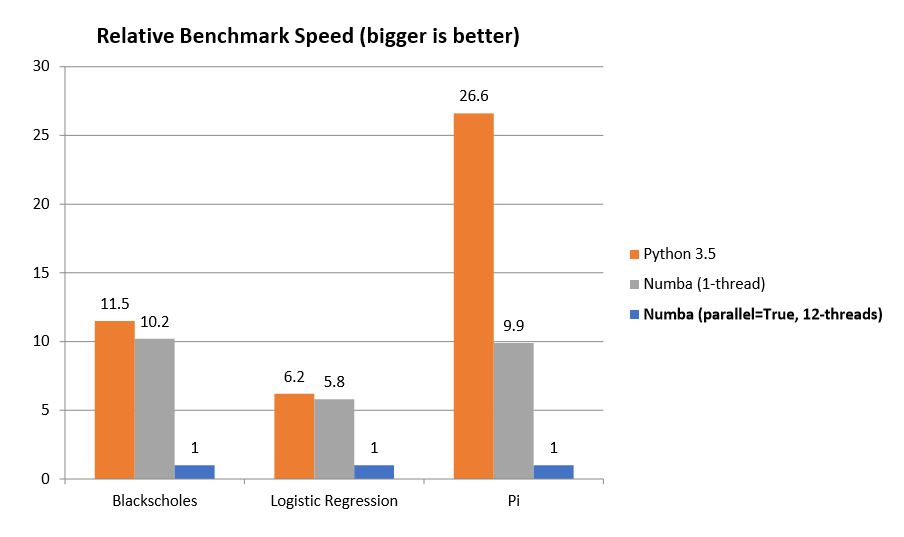
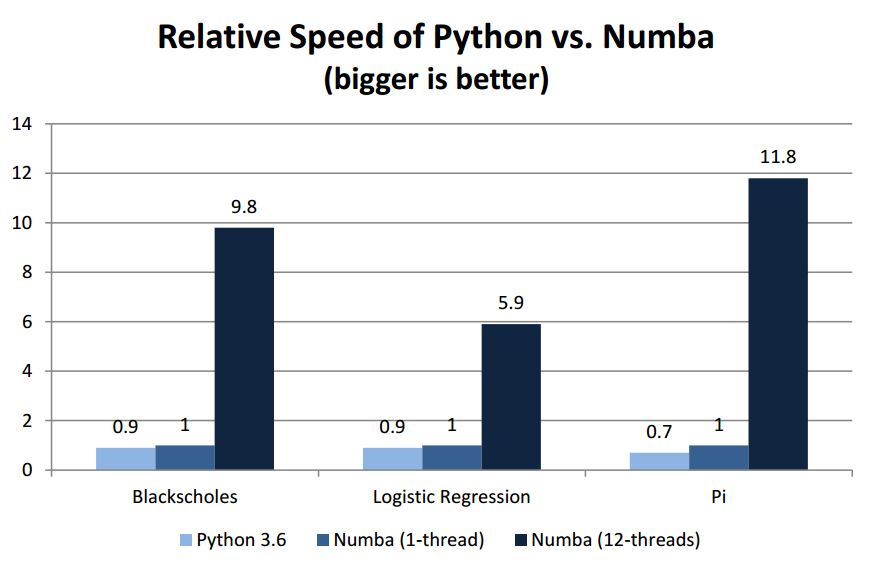
Update parallel benchmark graph, and add some discussion (#13)

diff --git a/papers/oleksandr_pavlyk/parallel/parallel.rst b/papers/oleksandr_pavlyk/parallel/parallel.rst
@@ -1,7 +1,7 @@
 In this section, we introduce a new feature in Numba that automatically parallelizes NumPy programs.
 Achieving high performance with Python on modern multi-core CPUs is challenging since Python implementations are generally interpreted and prohibit parallelism.
 To speed up sequential execution, Python functions can be compiled to fast native code using Numba, which in turns uses the LLVM JIT compiler. 
-All a programmer has to do to use Numba is to annotate their functions with Numba's `@jit` decorator.
+All a programmer has to do to use Numba is to annotate their functions with Numba's ``@jit`` decorator.
 However, the Numba JIT will not parallelize NumPy functions, even though the majority of them are known to have parallel semantics, and thus cannot make use of multiple cores.
 Furthermore, even if individual NumPy functions were parallelized, a program containing many such functions would likely have lackluster performance due to poor cache behavior. 
 Numba's existing solution is to allow users to write scalar kernels in OpenCL style, which can be executed in parallel. 
@@ -16,11 +16,11 @@ Our implementation supports the following parallel operations:
 1. Common arithmetic functions between NumPy arrays, and between arrays and scalars, as well as NumPy ufuncs. 
    They are often called `element-wise` or `point-wise` array operations:
 
-    * unary operators: ``+`` ``-`` ``~``
-    * binary operators: ``+`` ``-`` ``*`` ``/`` ``/?`` ``%`` ``|`` ``>>`` ``^`` ``<<`` ``&`` ``**`` ``//``
-    * comparison operators: ``==`` ``!=`` ``<`` ``<=`` ``>`` ``>=``
-    * NumPy ufuncs that are supported in Numba's nopython mode.
-    * User defined `DUFunc` through `numba.vectorize`.
+  * unary operators: ``+`` ``-`` ``~``
+  * binary operators: ``+`` ``-`` ``*`` ``/`` ``/?`` ``%`` ``|`` ``>>`` ``^`` ``<<`` ``&`` ``**`` ``//``
+  * comparison operators: ``==`` ``!=`` ``<`` ``<=`` ``>`` ``>=``
+  * NumPy ufuncs that are supported in Numba's nopython mode.
+  * User defined `DUFunc` through ``@vectorize``.
 
 2. NumPy reduction functions ``sum`` and ``prod``. Note that they have to be
    written as ``numpy.sum(a)`` instead of ``a.sum()``.
@@ -31,6 +31,9 @@ Our implementation supports the following parallel operations:
 4. Multi-dimensional arrays are also supported for the above operations when operands have matching dimension and size. 
    The full semantics of NumPy broadcast between arrays with mixed dimensionality or size is not supported, nor is the reduction across a selected dimension.
 
+5. NumPy `array` created from list comprehension is turned into direct array allocation and initialization without intermediate list.
+
+6. Explicit parallelization via `prange` that turns a for-loop into a parallel loop.
 
 As an example, a Logistic Regression function is given below:
 
@@ -58,14 +61,16 @@ We will not discuss details of the algorithm, but instead focus on how this prog
 
 6. The outer ``dot`` operation produces a result array of different dimension, and is not fused with the above kernel.
 
-Here, the only thing required to take advantage of parallel hardware is to set the `parallel=True` option for `@jit`, with no modifications to the ``logistic_regression`` function itself.  
-If we were to give an equivalent parallel implementation using Numba's `@guvectorize` decorator, it would require a pervasive change that rewrites the code to extract kernel computation that can be parallelized, which is both tedious and challenging.
+Here, the only thing required to take advantage of parallel hardware is to set the ``parallel=True`` option for ``@jit``, with no modifications to the ``logistic_regression`` function itself.  
+If we were to give an equivalent parallel implementation using Numba's ``@guvectorize`` decorator, it would require a pervasive change that rewrites the code to extract kernel computation that can be parallelized, which is both tedious and challenging.
 
-We measure the performance of automatic parallelization over three workloads, comparing auto-parallelization with Numba's sequential JIT, in relative speed to the default Python implementation.
+We measure the performance of automatic parallelization over three workloads, comparing auto-parallelization with Numba's sequential JIT and Python 3.6, normalized to the sequential (1-thread) speed of Numba. 
 
 .. figure:: parallel/parallel_benchmarks.jpg
 
-(Some discussion on benchmarks)
+Auto-parallelization proves to be an effective optimization for these benchmarks, achieving speedups from 5.9x to 11.8x over sequential Numba on 12-core Xeon X5680 @3.33GHz with 64GB RAM. The benchmarks are available as part of Numba's source distribution [numba]_. 
 
-(Some discussion on implementation)
+Our future plan is to support array range selection, enable auto-parallelization of more NumPy functions, as well as adding new features such as iterative stencils. We also plan to implement more optimizations that help make parallel programs run fast, improving both performance and productivity for Python programmers in the scientific domain.
+
+.. [numba] https://github.com/numba/numba
 

diff --git a/papers/oleksandr_pavlyk/optimizations.rst b/papers/oleksandr_pavlyk/optimizations.rst
@@ -80,8 +80,8 @@ Numba vectorization
 We worked with Continuum Analytics to make Numba to vectorize math code with transcedential functions using Intel SVML library.
 
 
-Numba Parallelism
------------------
+Auto-parallelization for Numba
+------------------------------
 
 .. include:: papers/oleksandr_pavlyk/parallel/parallel.rst
 
